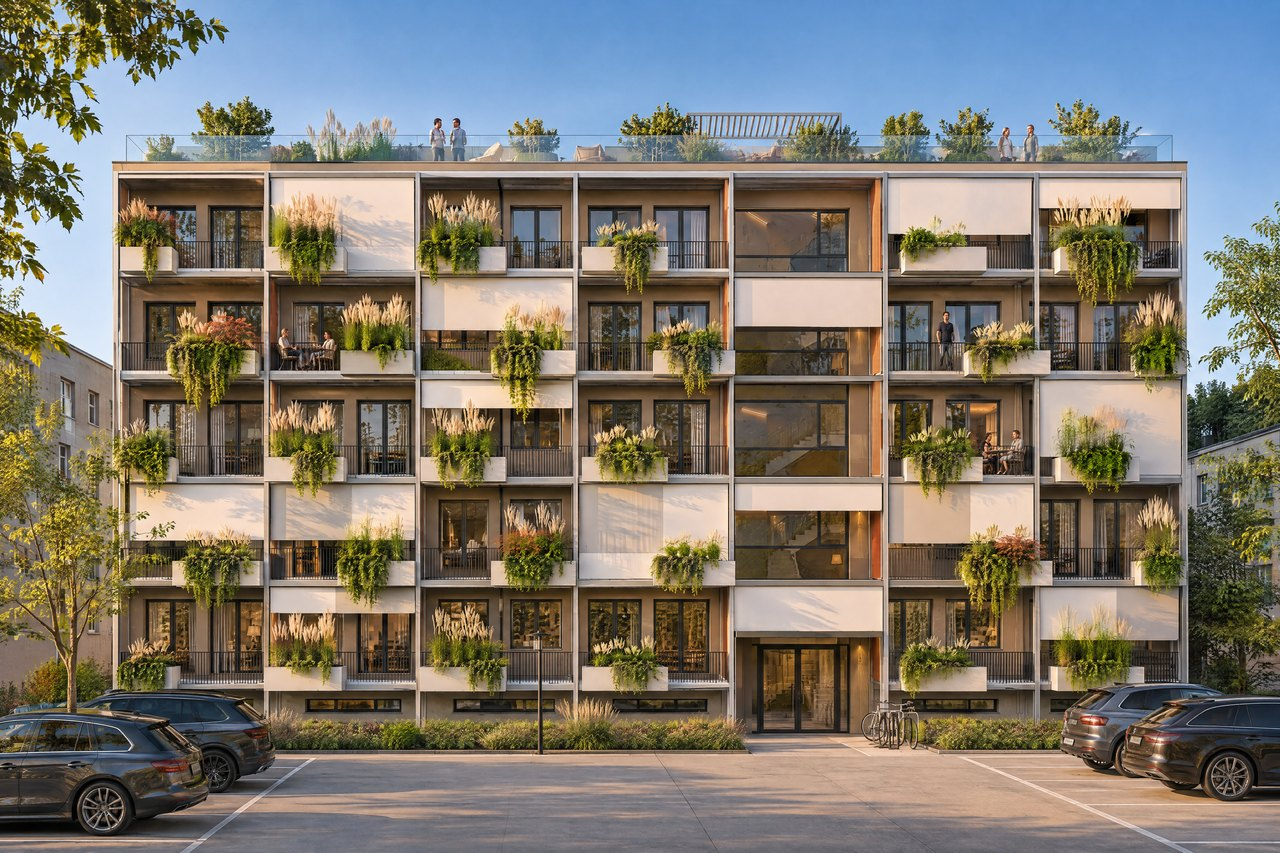
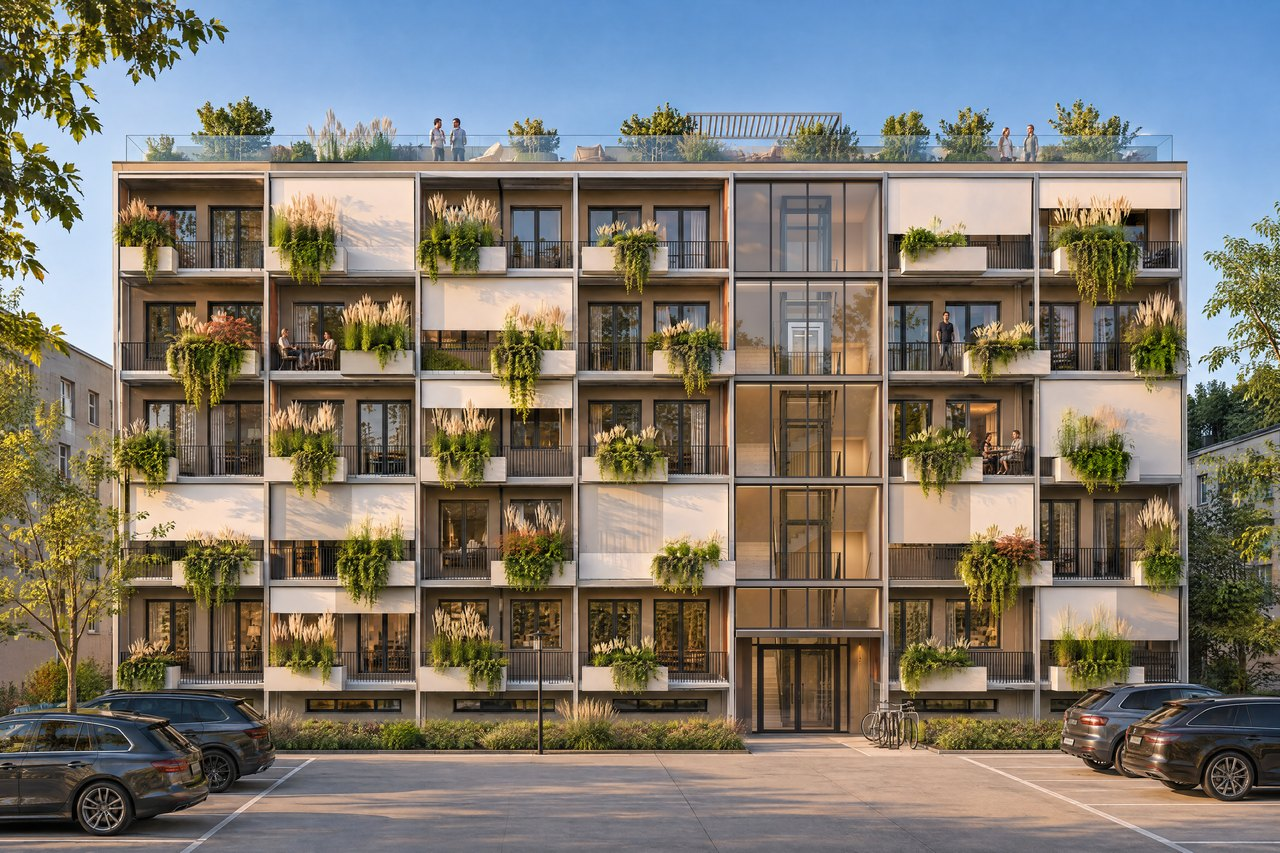
feat: courtyard visualisation, second version of the stair core
Same address and file names; only the bay above the rear entrance changed
(glazed, lift shaft in the middle, stairs on both sides). Images load with ?v=2.

Changed region(s): [[0.5625, 0.1829, 0.6875, 0.8535]]

diff --git a/vizualizacia/eagcamgx/index.html b/vizualizacia/eagcamgx/index.html
@@ -48,11 +48,11 @@
   <span class="brand">P6 · Bratislava · Ružinov</span>
 </header>
 <main>
-  <a class="shot" href="p6-pohlad-z-dvora-2560.jpg" title="Otvoriť v plnej veľkosti">
-    <img src="p6-pohlad-z-dvora-2560.jpg"
-         srcset="p6-pohlad-z-dvora-1280.jpg 1280w, p6-pohlad-z-dvora-2560.jpg 2560w" sizes="(max-width: 700px) 100vw, min(92vw, 150svh)"
+  <a class="shot" href="p6-pohlad-z-dvora-2560.jpg?v=2" title="Otvoriť v plnej veľkosti">
+    <img src="p6-pohlad-z-dvora-2560.jpg?v=2"
+         srcset="p6-pohlad-z-dvora-1280.jpg?v=2 1280w, p6-pohlad-z-dvora-2560.jpg?v=2 2560w" sizes="(max-width: 700px) 100vw, min(92vw, 150svh)"
          width="2560" height="1707" decoding="async"
-         alt="Vizualizácia domu P6 z dvora: balkóny so zeleňou, schodisko so zadným vchodom, strešná terasa a parkovanie pri dome">
+         alt="Vizualizácia domu P6 z dvora: balkóny so zeleňou, presklené schodisko s výťahom a zadným vchodom, strešná terasa a parkovanie pri dome">
   </a>
 </main>
 <footer>

diff --git a/CLAUDE.md b/CLAUDE.md
@@ -142,6 +142,12 @@ node _build/pdf/build_pdfs.mjs      # all 44 PDFs carry the same texts
 
 ## Dev notes
 
+### 2026-11-25 · vizualizácia z dvora: nové schodiskové pole · feat/vizualizacia-dvor-v2 · Vlad + Claude
+
+- `vizualizacia/eagcamgx/`: obrázok vymenený za druhú verziu. Mení sa len pole nad zadným vchodom: je celé presklené,
+  bez svetlých panelov, v strede presklená výťahová šachta, schody po jej stranách a podesta medzi nimi. Zvyšok obrázka
+  je rovnaký. Adresa aj názvy súborov ostávajú; stránka ich načítava s `?v=2`, priamy odkaz na `.jpg` dobehne cez cache.
+
 ### 2026-11-25 · neverejná stránka s vizualizáciou domu z dvora · feat/vizualizacia-dvor · Vlad + Claude
 
 - Nový priečinok `vizualizacia/eagcamgx/`: jedna stránka s vizualizáciou dvorovej strany domu (čelný pohľad, pár k uličnej
